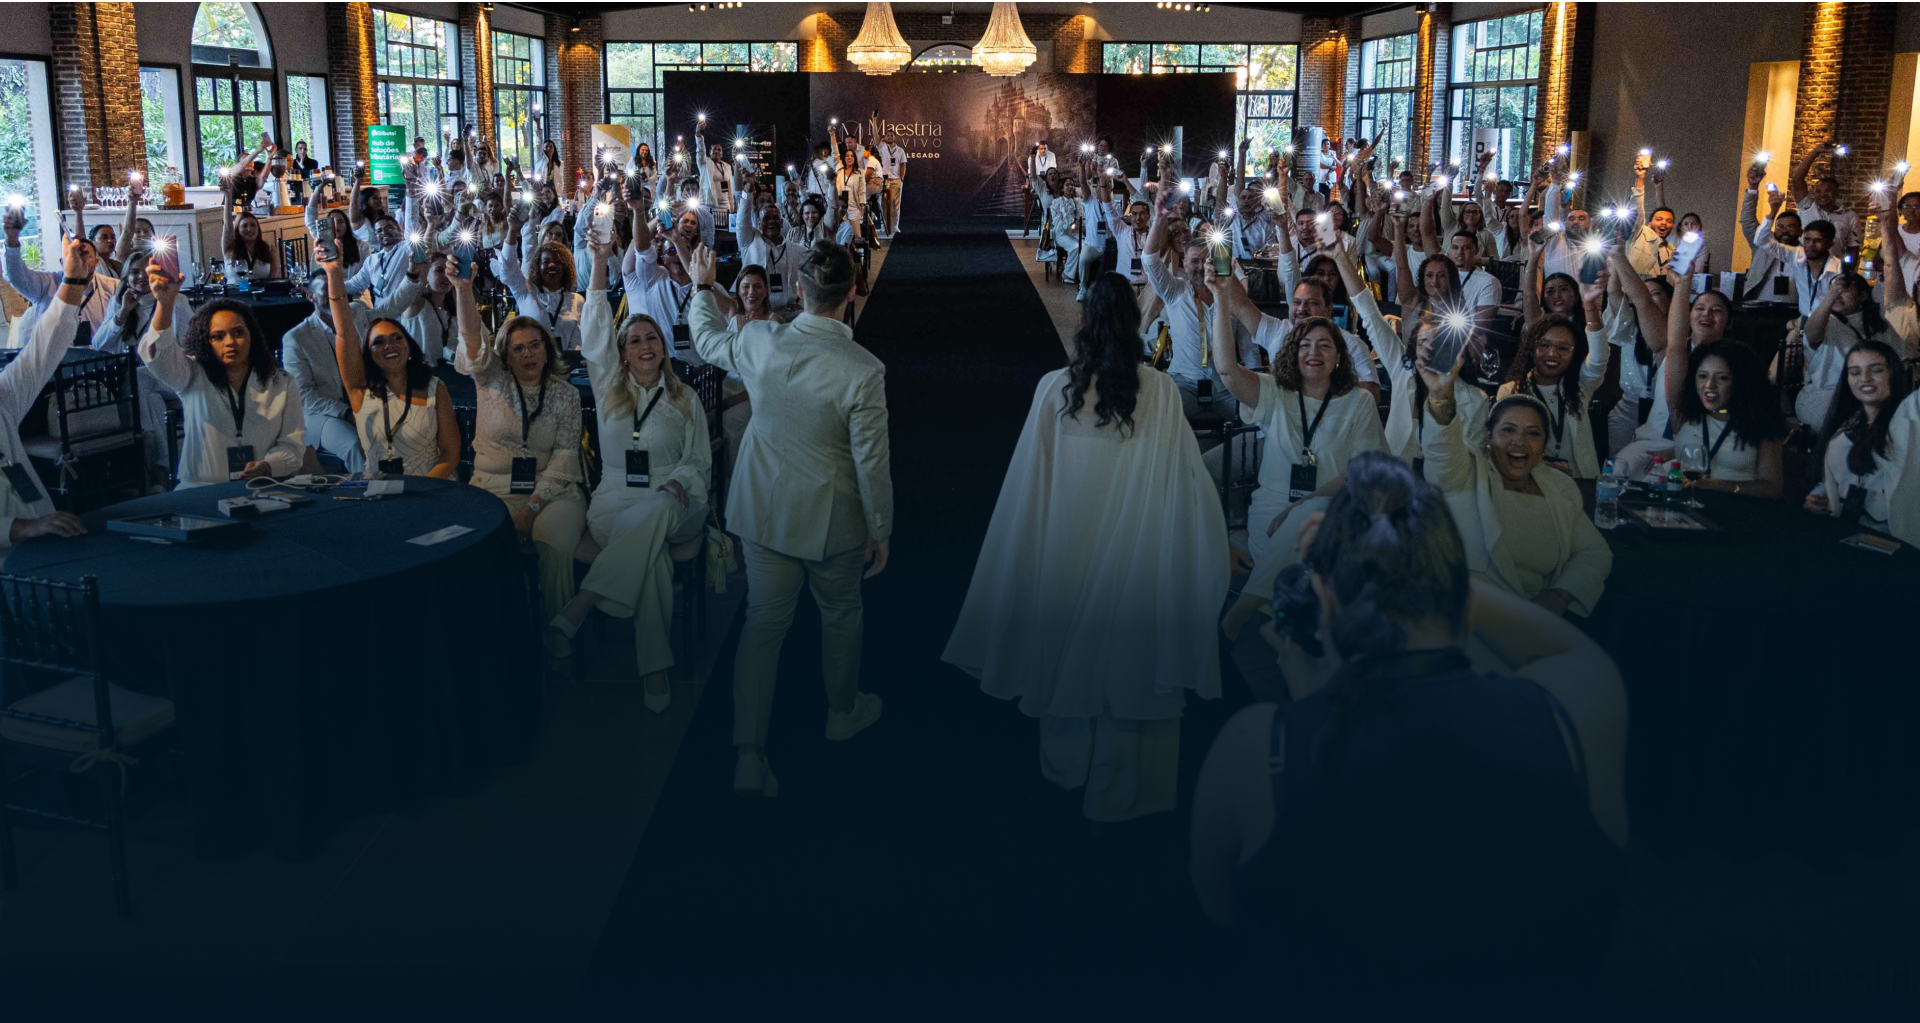
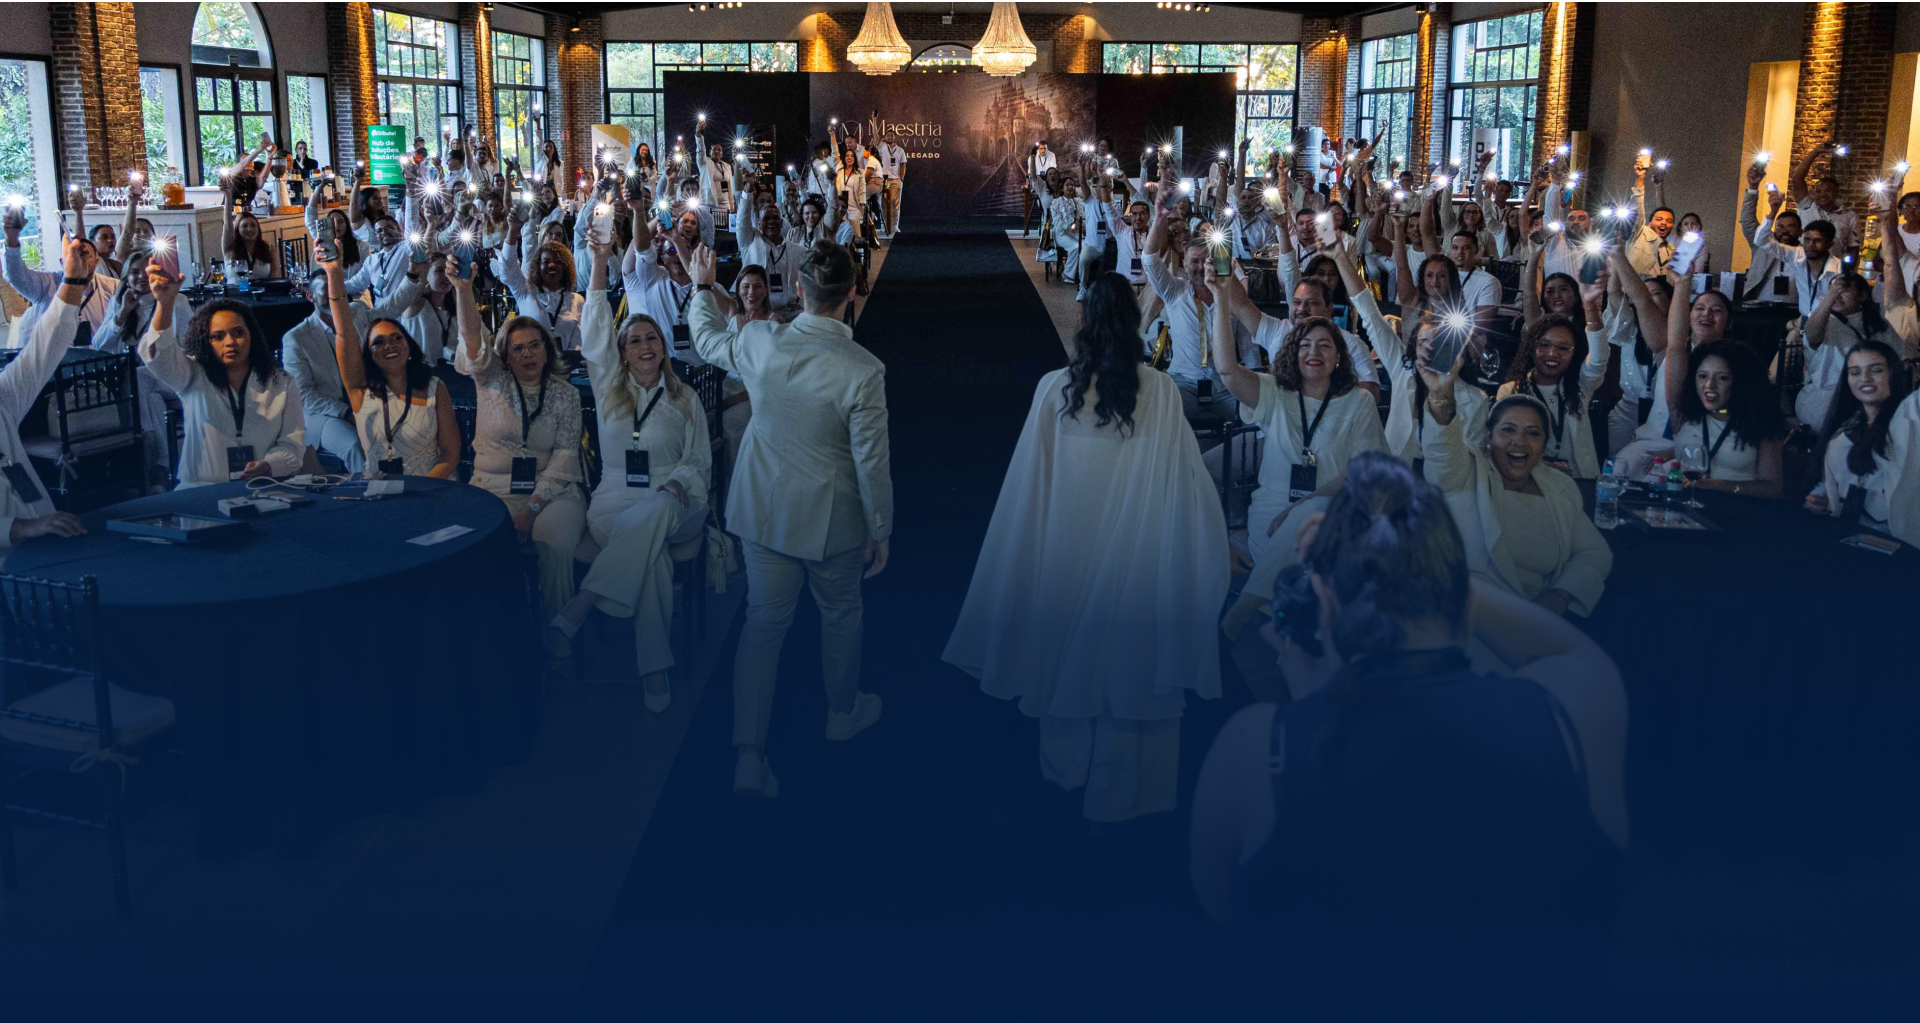
Hero nova e o token de transicao sai de cena
Amostrei o pe da arte nova: e #041e42 nos tres pontos da base, exatamente a
cor da pagina. Entao nao ha mais transicao a fazer, e o --hero-foot sai
junto com o degrade que ele alimentava na cauda.

O veu da hero e a faixa das listras voltam a terminar em var(--ground), e a
cauda vira cor chapada. Menos uma peca pra manter.

Conferido: corpo, faixa e cauda leem rgb(4,30,66), em 1440 e em 393.

Claude-Session: https://claude.ai/code/session_013jajXCUfWYegnKyb6rfXJy

diff --git a/src/styles/global.css b/src/styles/global.css
@@ -15,10 +15,6 @@
      um passo abaixo dela, pra fundo de caixa e pontas de degradê. */
   --ground:      #041e42;
   --ground-deep: #02132b;
-
-  /* Pé da arte da abertura. Vale só na hero e na faixa logo abaixo dela,
-     que é onde a arte encosta na página. */
-  --hero-foot:   #011522;
   --navy:        #171a3b;   /* 01 - AZUL MARINHO, do arquivo do cliente */
   --navy-glow:   #0a1264;
 
